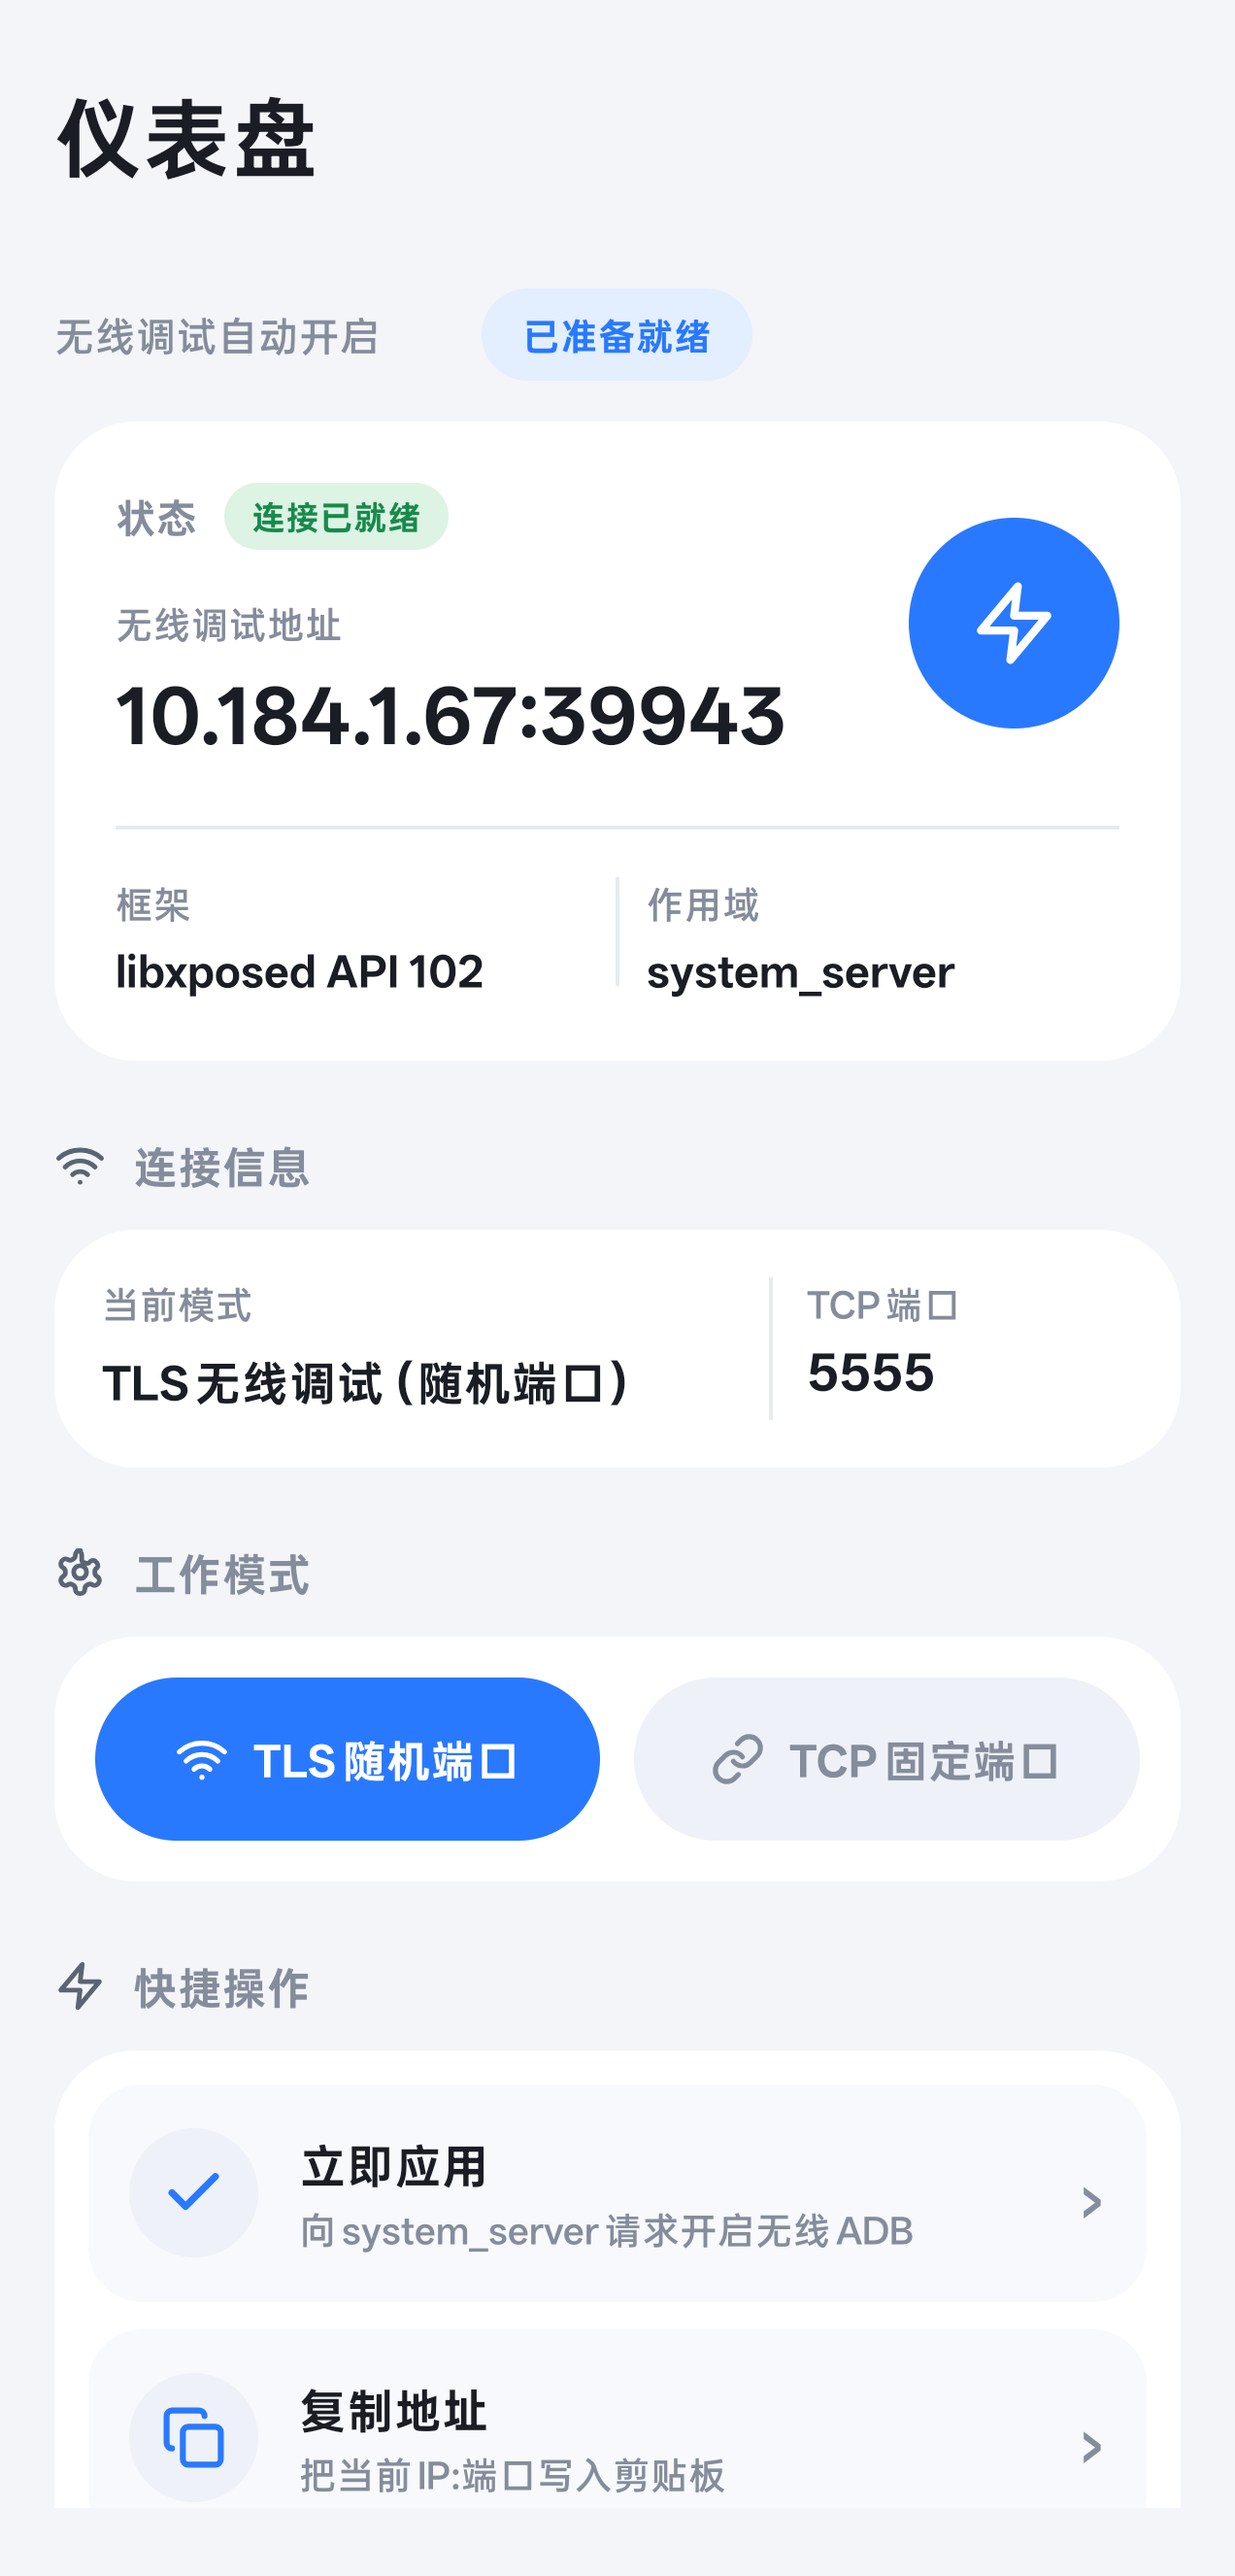
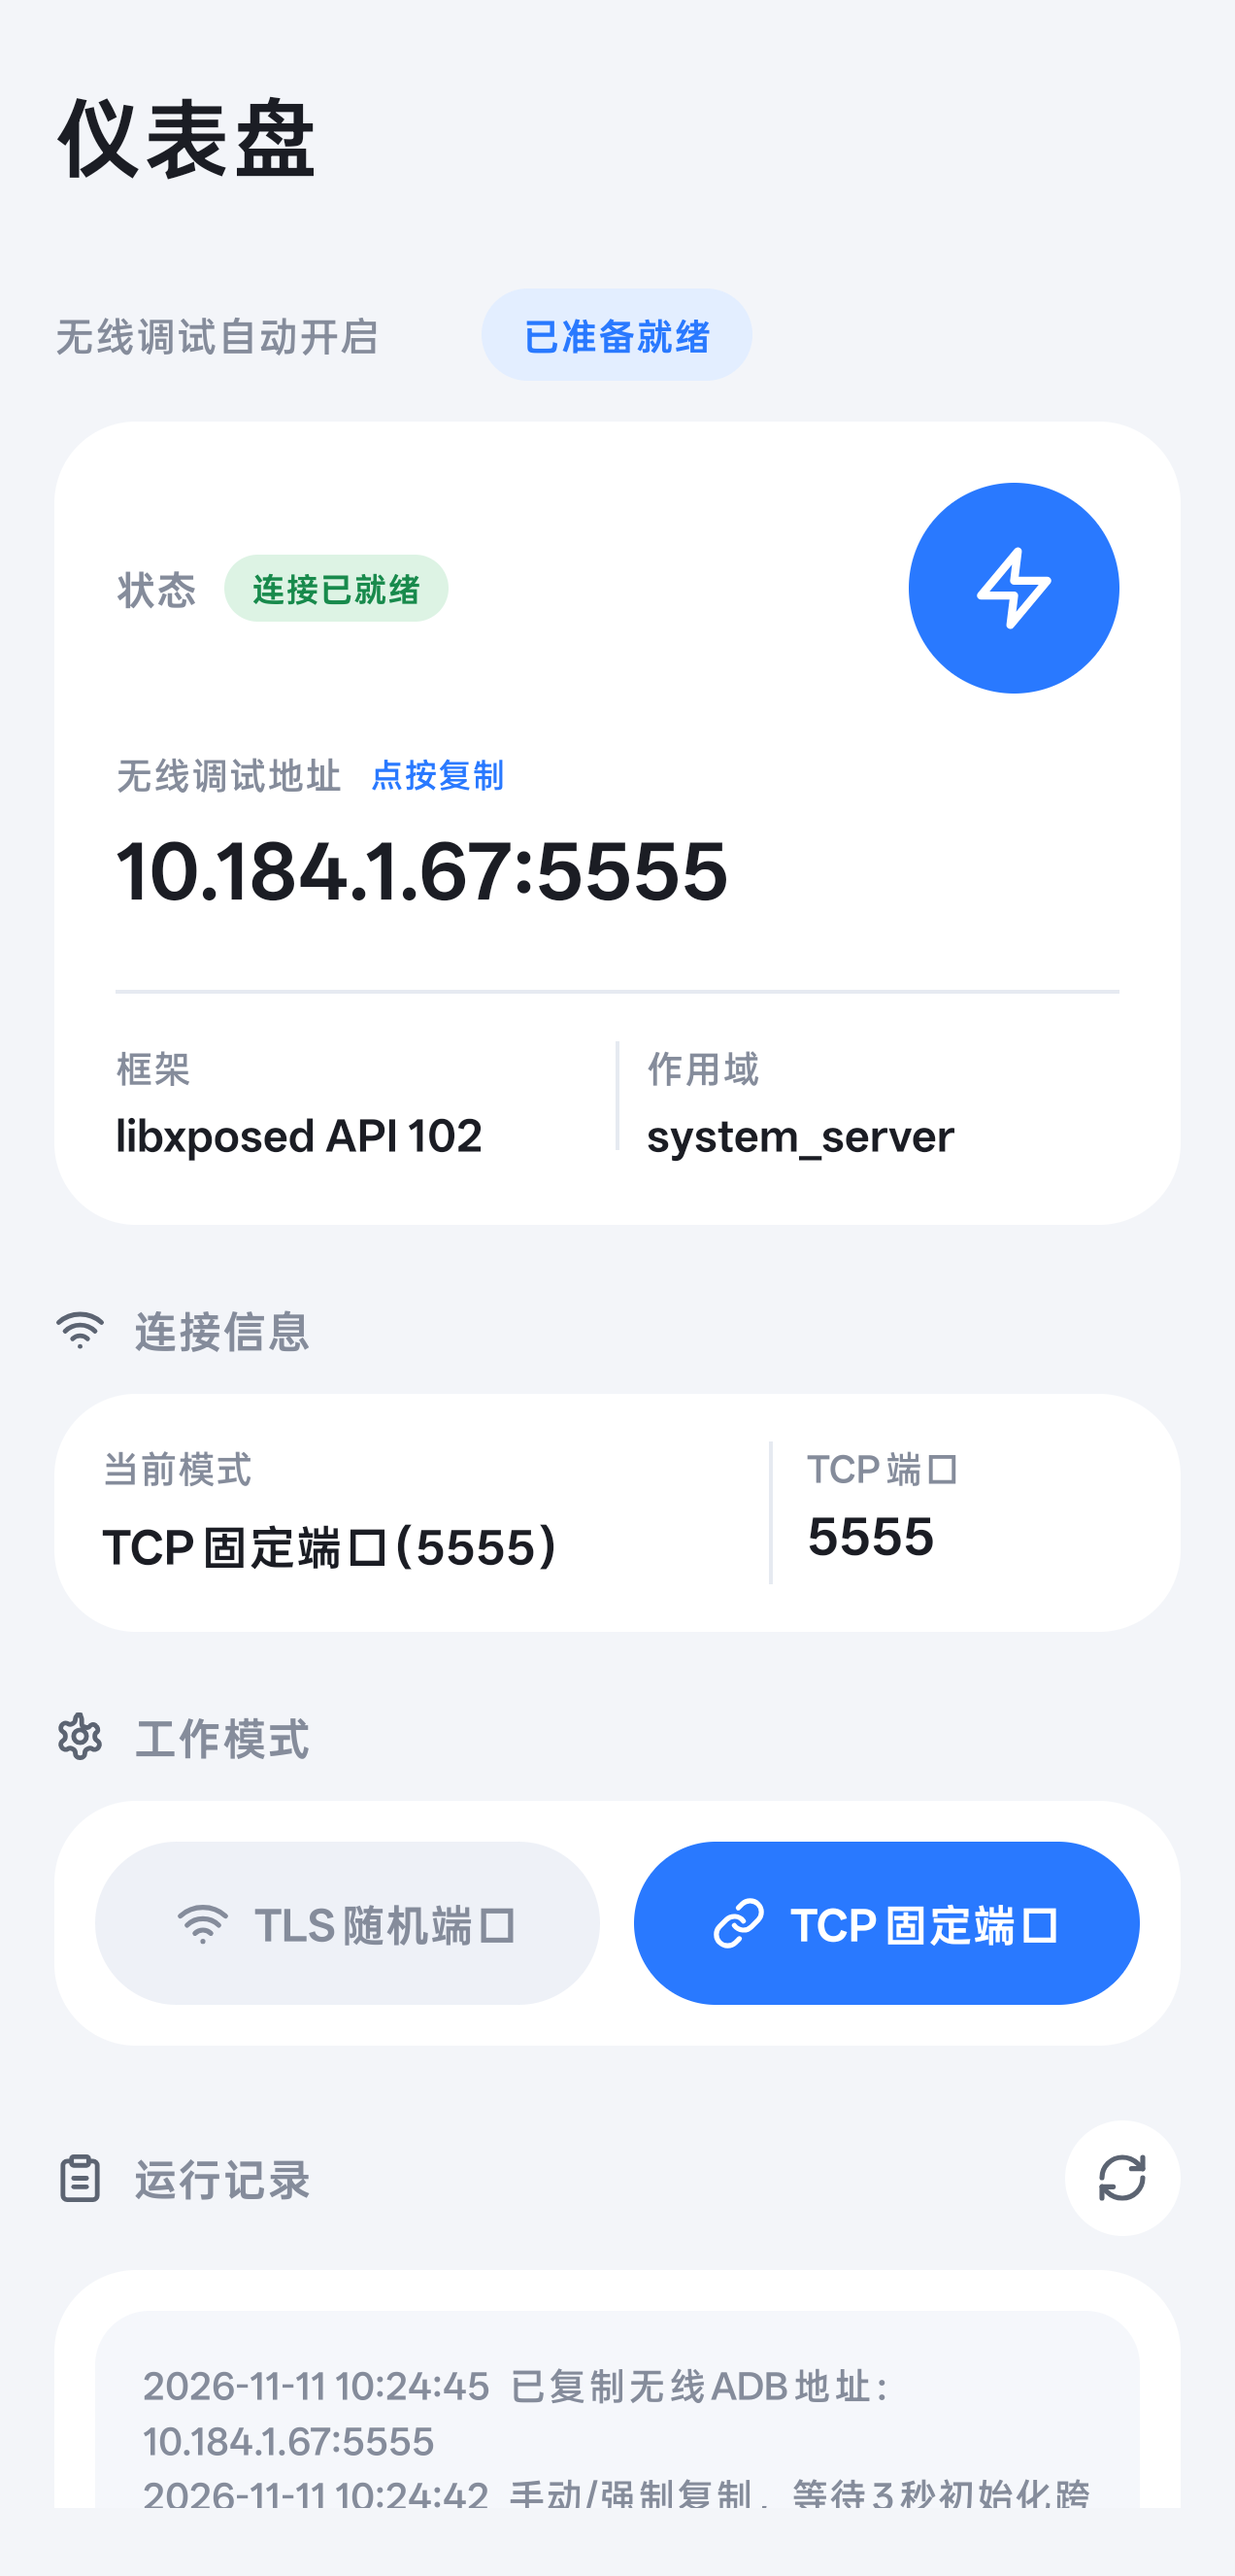
fix: 地址完整显示、精简快捷操作、自动复制不再依赖微信输入法 (1.2.17)
UI
- 修复端口被截断：地址原先挤在闪电按钮左侧，单行 23sp 放不下 IP:端口
  （截图里 192.168.100.222:5555 只显示到 :55）。改为地址独占整卡一行，
  并启用 autoSizeTextType（23sp -> 最小 14sp）兜底 5 位 TLS 端口与更长 IP。
- 移除「快捷操作」整块及 include_action_button.xml，三个 64dp 大按钮删除，
  能力迁移：点地址=立即复制、闪电=强制重开 adbd、日志标题右侧刷新图标=刷新。
- 地址旁新增「点按复制」提示；删除已无引用的按钮布局文件。
- README 截图换为 1.2.17 无状态栏版本。

自动复制（真实缺陷）
- 此前 waitForWeType() 在 isWeTypeRunning() 为假时只记日志、不写剪贴板，
  整条自动复制链路绑死在硬编码的 com.tencent.wetype 上；未装/未运行微信
  输入法时地址变化后拿不到剪贴板，只能手动点复制。
- 改为立即写入系统剪贴板（剪贴板是系统服务，任何输入法都能粘贴），并保留
  pendingAddress，待微信输入法启动后补发一次以触发其跨设备同步；已运行时
  维持原有 3 秒流程。forceCopy 轮询时按 lastCopiedAddress 去重，避免重复写。
- 日志文案改准确：不再写「等待 3 秒初始化跨设备粘贴服务」。
- README 新增「剪贴板与输入法」章节说明依赖与实际行为。

版本升至 versionCode 39 / versionName 1.2.17

diff --git a/app/src/main/java/dev/wirelessadb/autostart/StatusActivity.java b/app/src/main/java/dev/wirelessadb/autostart/StatusActivity.java
@@ -40,12 +40,9 @@ public final class StatusActivity extends Activity {
     private View logEmpty;
     private ScrollView logScroll;
     private TextView logView;
-    private ImageView copyIcon;
-    private TextView copyLabel;
     private boolean copiedFlash;
 
     private ScrollView scroll;
-    private View applyBtn;
 
     @Override protected void onCreate(Bundle state) {
         super.onCreate(state);
@@ -93,56 +90,30 @@ public final class StatusActivity extends Activity {
         logScroll = findViewById(R.id.log_scroll);
         logView = findViewById(R.id.log_view);
 
-        View applyRoot = findViewById(R.id.action_apply);
-        View copyRoot = findViewById(R.id.action_copy);
-        View refreshRoot = findViewById(R.id.action_refresh);
-        applyBtn = applyRoot;
-        setupAction(applyRoot, R.drawable.ic_check_cyan, "立即应用",
-                "向 system_server 请求开启无线 ADB", v -> {
-                    sendBroadcast(new Intent("dev.wirelessadb.autostart.APPLY").setPackage("android"));
-                    setNotice("已请求立即应用");
-                    Toast.makeText(this, "已请求立即应用", Toast.LENGTH_SHORT).show();
-                    portInput.postDelayed(() -> refreshAll("记录已刷新"), 1500);
-                });
-        setupAction(copyRoot, R.drawable.ic_copy, "复制地址",
-                "把当前 IP:端口写入剪贴板", v -> {
-                    sendBroadcast(new Intent("dev.wirelessadb.autostart.REQUEST_COPY").setPackage("android"));
-                    flashCopied();
-                    setNotice("地址已复制");
-                    Toast.makeText(this, "已请求立即复制", Toast.LENGTH_SHORT).show();
-                    portInput.postDelayed(() -> refreshAll(null), 1200);
-                });
-        setupAction(refreshRoot, R.drawable.ic_refresh, "刷新记录",
-                "重新读取状态页与运行日志", v -> refreshAll("记录已刷新"));
+        // 地址整行点按即复制：这是唯一无条件立即写剪贴板的入口。
+        addressView.setOnClickListener(v -> {
+            v.animate().scaleX(0.98f).scaleY(0.98f).setDuration(70)
+                    .withEndAction(() -> v.animate().scaleX(1f).scaleY(1f)
+                            .setDuration(70).start())
+                    .start();
+            sendBroadcast(new Intent("dev.wirelessadb.autostart.REQUEST_COPY").setPackage("android"));
+            flashCopied();
+            Toast.makeText(this, "地址已复制", Toast.LENGTH_SHORT).show();
+        });
 
+        // 闪电按钮：强制重新开启 adbd（同模式点 TLS/TCP 不会触发，这是唯一恢复入口）。
         findViewById(R.id.hero_action).setOnClickListener(v -> {
             v.animate().scaleX(0.9f).scaleY(0.9f).setDuration(80)
                     .withEndAction(() -> v.animate().scaleX(1f).scaleY(1f)
                             .setDuration(80).start())
                     .start();
-            applyBtn.performClick();
+            sendBroadcast(new Intent("dev.wirelessadb.autostart.APPLY").setPackage("android"));
+            setNotice("已请求立即应用");
+            Toast.makeText(this, "已请求立即应用", Toast.LENGTH_SHORT).show();
+            portInput.postDelayed(() -> refreshAll(null), 1500);
         });
 
-        copyIcon = copyRoot.findViewById(R.id.action_icon);
-        copyLabel = copyRoot.findViewById(R.id.action_label);
-    }
-
-    private void setupAction(View root, int iconRes, String label, String sub,
-                             View.OnClickListener click) {
-        ImageView icon = root.findViewById(R.id.action_icon);
-        TextView text = root.findViewById(R.id.action_label);
-        TextView subView = root.findViewById(R.id.action_sub);
-        View btn = root;
-        icon.setImageResource(iconRes);
-        text.setText(label);
-        subView.setText(sub);
-        btn.setOnClickListener(v -> {
-            v.animate().scaleX(0.98f).scaleY(0.98f).setDuration(70)
-                    .withEndAction(() -> v.animate().scaleX(1f).scaleY(1f)
-                            .setDuration(70).start())
-                    .start();
-            click.onClick(v);
-        });
+        findViewById(R.id.log_refresh).setOnClickListener(v -> refreshAll("记录已刷新"));
     }
 
     private void wireActions() {
@@ -257,12 +228,10 @@ public final class StatusActivity extends Activity {
 
     private void flashCopied() {
         copiedFlash = true;
-        copyIcon.setImageResource(R.drawable.ic_check_cyan);
-        copyLabel.setText("已复制");
-        copyLabel.postDelayed(() -> {
+        setNotice("地址已复制");
+        noticeChip.postDelayed(() -> {
             copiedFlash = false;
-            copyIcon.setImageResource(R.drawable.ic_copy);
-            copyLabel.setText("复制地址");
+            refreshAll(null);
         }, 1600);
     }
 

diff --git a/app/src/main/java/dev/wirelessadb/autostart/WirelessAdbHook.java b/app/src/main/java/dev/wirelessadb/autostart/WirelessAdbHook.java
@@ -640,9 +640,15 @@ public final class WirelessAdbHook extends XposedModule {
         if (address.equals(pendingAddress) && copyScheduled) return;
         pendingAddress = address;
         if (isWeTypeRunning()) {
-            scheduleCopyAfterWeTypeReady(forceCopy ? "手动/强制复制" : "微信输入法已经运行");
+            scheduleCopyAfterWeTypeReady(forceCopy ? "手动/强制复制" : "微信输入法已运行，3 秒后触发跨设备同步");
         } else {
-            logLine("无线 ADB 地址已就绪，等待微信输入法启动后复制：" + address);
+            // 剪贴板是系统服务，不依赖任何输入法。没装/没运行微信输入法也要立即写入，
+            // 否则本机粘贴和第三方输入法的跨设备同步都会拿不到地址。
+            // forceCopy 轮询会多次走到这里，地址未变时不要重复写。
+            if (!address.equals(lastCopiedAddress)) {
+                copyAddress(address);
+                logLine("地址已写入系统剪贴板（微信输入法未运行，跨设备同步待其启动后补发）：" + address);
+            }
         }
     }
 
@@ -663,7 +669,7 @@ public final class WirelessAdbHook extends XposedModule {
     private static void scheduleCopyAfterWeTypeReady(String reason) {
         if (pendingAddress == null || copyScheduled) return;
         copyScheduled = true;
-        logLine(reason + "，等待 3 秒初始化跨设备粘贴服务");
+        logLine(reason + "，3 秒后复读剪贴板以触发跨设备同步");
         handler.postDelayed(() -> {
             String address = pendingAddress;
             pendingAddress = null;

diff --git a/README.md b/README.md
@@ -3,7 +3,7 @@
 **LSPosed 模块**：开机首次解锁后自动开启无线 ADB，并在状态页查看地址与日志。
 
 包名：`dev.wirelessadb.autostart`  
-当前版本：`1.2.16`（libxposed API 102 迁移版，面向一加 15 / ColorOS 17 / Android 17；**桌面图标换为绿底白螺旋（FLClash 风格，附 Android 13+ 主题图标层），图形占比降至 60.8%**；状态页 Material You 单页 Dashboard、统一线性图标、**整页自由滚动**（无吸顶固定）、app 改名「无线ADB」、无底部导航；修复全部按钮按下时浮现矩形方块；**修复无谓重启 adbd 导致的无线 ADB 断连**：配置未变时不再重启，切换模式时明确提示需用新地址重连；**模块加载状态改用独立标记 + boot_count 锚定**，不再依赖会被滚动截断的日志文本）
+当前版本：`1.2.17`（libxposed API 102 迁移版，面向一加 15 / ColorOS 17 / Android 17；**修复地址端口号被截断、精简快捷操作、自动复制不再依赖微信输入法**；桌面图标为绿底白螺旋（FLClash 风格，附 Android 13+ 主题图标层），图形占比 60.8%；状态页 Material You 单页 Dashboard、统一线性图标、**整页自由滚动**（无吸顶固定）、app 改名「无线ADB」、无底部导航；修复全部按钮按下时浮现矩形方块；**修复无谓重启 adbd 导致的无线 ADB 断连**：配置未变时不再重启，切换模式时明确提示需用新地址重连；**模块加载状态改用独立标记 + boot_count 锚定**，不再依赖会被滚动截断的日志文本）
 
 <p align="center">
   <img src="docs/screenshot.png" alt="无线 ADB 自启状态页" width="360" />
@@ -18,11 +18,21 @@
 
 3、监听无线调试关闭（仅 TLS）、Wi‑Fi 恢复、亮屏，必要时重新开启
 
-4、地址变化时自动复制到剪贴板（等待微信输入法跨设备粘贴就绪）
+4、地址变化时自动写入系统剪贴板；点按状态页地址可随时手动复制
 
 5、获取 IP 时跳过 172.19.* VPN 虚拟地址
 
 6、开机早期日志写入 Settings.Global，状态页可查看
+
+### 剪贴板与输入法（常见疑问）
+
+**不必须安装微信输入法**。复制动作写的是 Android **系统剪贴板**（由 system_server 的 `ClipboardManager` 写入），豆包、搜狗、百度、Gboard 等任何输入法都能直接粘贴，本机粘贴也没有 3 秒延迟。
+
+日志里「微信输入法已运行，3 秒后触发跨设备同步」只针对**微信输入法的跨设备粘贴**：它的同步服务启动较慢，所以在其进程运行时会延迟 3 秒再写一次剪贴板，确保这次变更能被它的跨设备通道捕获。这 3 秒是给微信输入法留的窗口，不是系统限制——其他输入法若自带跨设备剪贴板同步，读的是同一个系统剪贴板，同样能同步。
+
+1.2.16 及之前，未安装或未运行微信输入法时**只记日志、不写剪贴板**，地址变化后必须手动点「复制地址」。1.2.17 起改为：微信输入法未运行时**立即写入**剪贴板，并在其日后启动时补发一次以触发跨设备同步；已运行时保留原有 3 秒流程。
+
+状态页交互（1.2.17 起）：点按**地址文字**＝立即复制；点右上**闪电**＝强制重开 adbd（同模式重复点 TLS/TCP 不会重开，这是唯一恢复入口）；「运行记录」标题右侧的刷新图标＝刷新状态与日志。原先的「快捷操作」三个大按钮已移除，能力全部迁移到上述控件。
 
 ## 这次改了什么
 
@@ -85,6 +95,13 @@
 `enableTcp` / `enableTls` / `onSetMode` / TCP 轮询重试四处都是无条件重启 adbd，哪怕配置没变 —— adbd 一重启连接必断、TLS 端口还会被重新随机分配。改为幂等：目标状态已生效就只刷新地址，不碰 adbd；端口是否在监听用 Socket 连 `127.0.0.1:<port>` 实测，不只看属性值。
 
 跨模式切换（TLS ↔ TCP）仍会断连，这是平台必然 —— 改为明确提示「端口将重置，请用新地址重连」并自动刷新新地址。顺带修了切换模式后短暂显示旧端口的 bug。
+
+### 1.2.17：地址完整显示、界面精简、自动复制不再依赖输入法
+
+- **修复端口被截断**：地址原先挤在闪电按钮左侧，单行 23sp 放不下 `IP:端口`（截图里 `192.168.100.222:5555` 只显示到 `:55`）。改为地址独占整卡一行，并启用 `autoSizeTextType`（23sp → 最小 14sp）兜底 5 位 TLS 端口与更长 IP。
+- **移除「快捷操作」区块**：删掉「立即应用」「复制地址」「刷新记录」三个 64dp 大按钮及 `include_action_button.xml`，能力迁移到已有控件——点地址＝复制，闪电＝强制重开 adbd，日志标题右侧刷新图标＝刷新。功能零丢失，页面少一整块。
+- **自动复制不再绑死微信输入法**：此前 `waitForWeType()` 在 `isWeTypeRunning()` 为假时只记日志、不写剪贴板。改为立即写入系统剪贴板，并保留 `pendingAddress`，待微信输入法启动后补发一次以触发跨设备同步；已运行时维持原有 3 秒流程。日志文案同步改准确。
+- 详见上方[剪贴板与输入法](#剪贴板与输入法常见疑问)。
 
 ### 1.2.16：桌面图标图形缩小 20%
 
